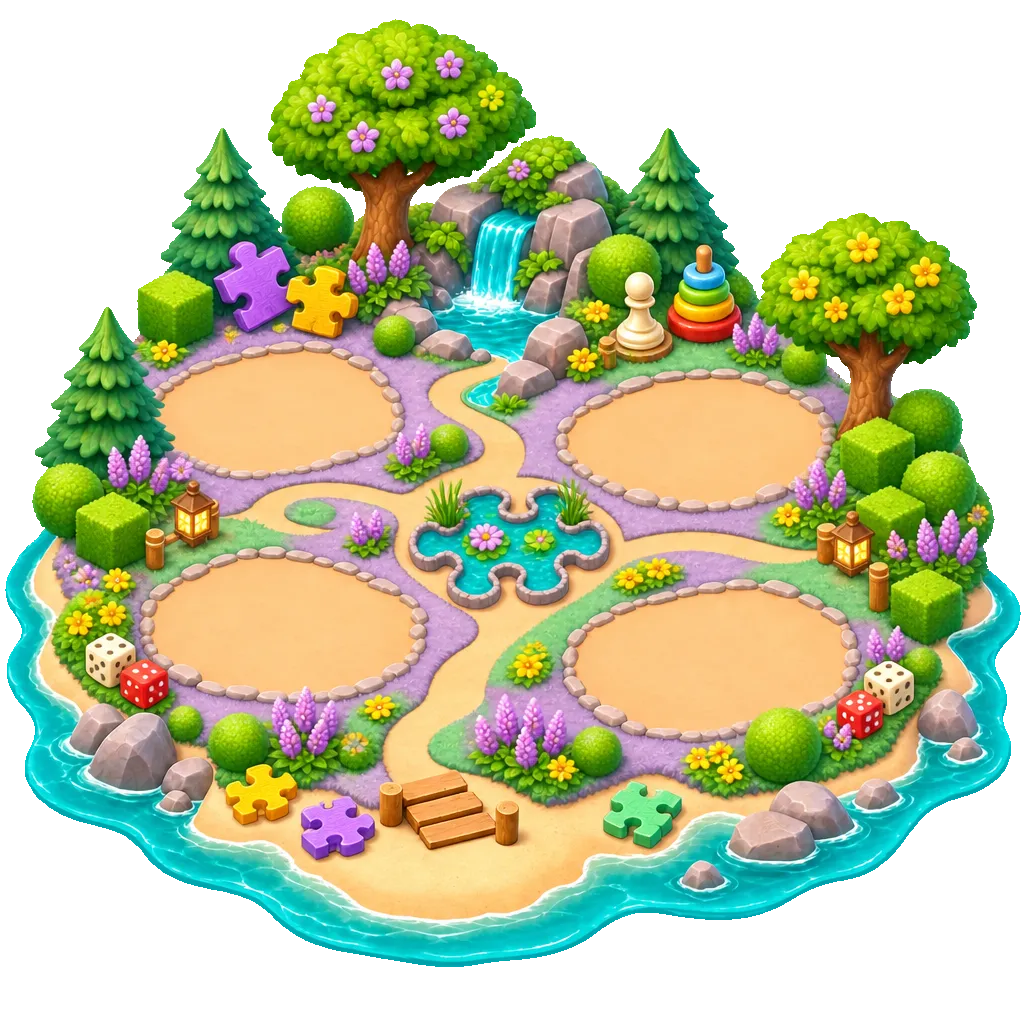
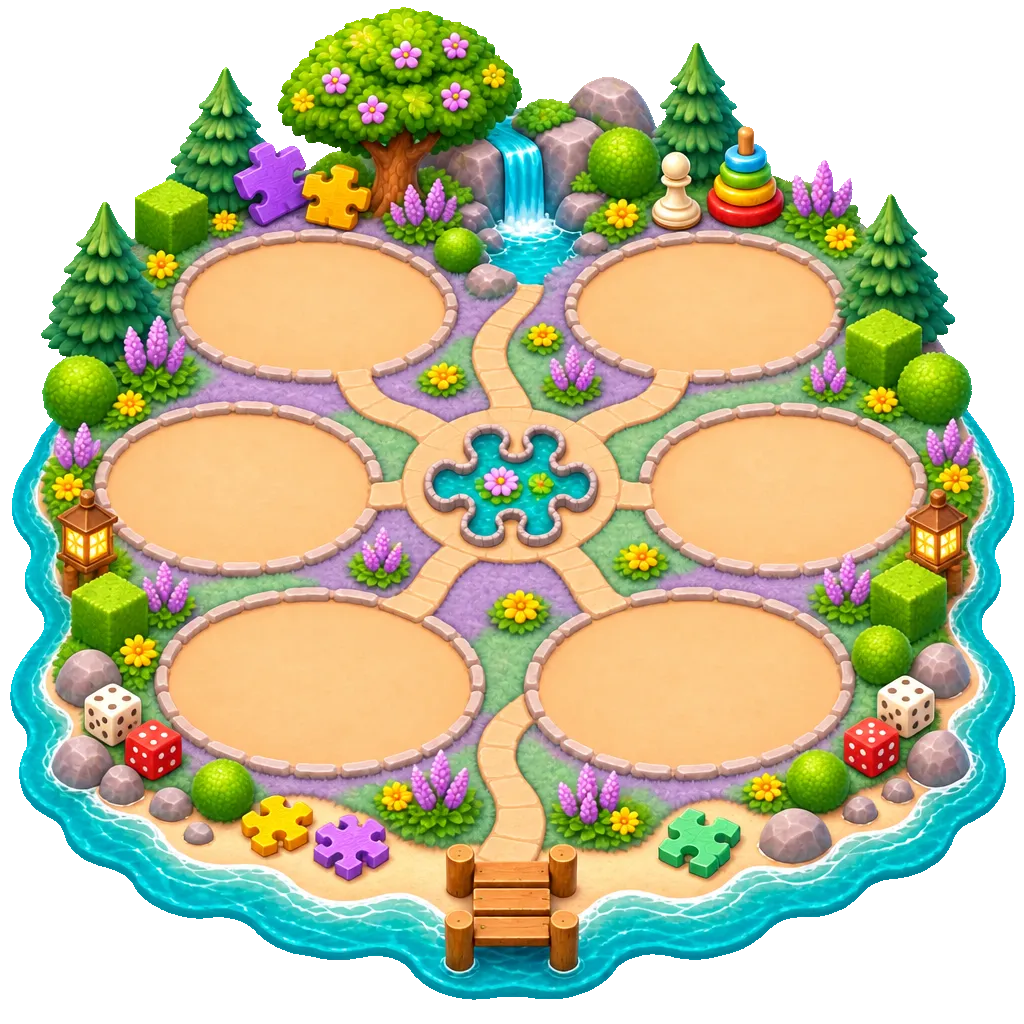
L'île des méninges passe à 6 places, 2 libres pour de futurs bâtiments

diff --git a/js/carte.js b/js/carte.js
@@ -271,7 +271,7 @@ const EMPLACEMENTS = {
   securite: { cote: 150, places: [[0.314, 0.343], [0.686, 0.35], [0.27, 0.6], [0.683, 0.607]] },
   coeur: { cote: 150, places: [[0.27, 0.4], [0.67, 0.43], [0.275, 0.607], [0.693, 0.636]] },
   nature: { cote: 150, places: [[0.27, 0.41], [0.68, 0.43], [0.28, 0.61], [0.69, 0.64]] },
-  meninges: { cote: 150, places: [[0.27, 0.41], [0.68, 0.43], [0.28, 0.61], [0.69, 0.64]] },
+  meninges: { cote: 150, places: [[0.31, 0.295], [0.69, 0.295], [0.235, 0.48], [0.765, 0.48], [0.315, 0.665], [0.675, 0.665]] }, // 6 emplacements, les 2 du bas sont libres
 };
 const FOND = [40, 110, 720]; // l'image de l'île sur la carte : x, y, côté
 const surLeFond = ([nx, ny]) => [FOND[0] + FOND[2] * nx, FOND[1] + FOND[2] * (ny + 0.045)]; // le sol d'un bâtiment, un peu sous le milieu de l'emplacement

diff --git a/sw.js b/sw.js
@@ -1,5 +1,5 @@
 // Garde l'app en cache pour qu'elle marche hors ligne. Changer VERSION à chaque mise en ligne.
-const VERSION = 'ile-60';
+const VERSION = 'ile-61';
 importScripts('images/liste.js'); // self.IMAGES : les images du nouveau style déjà prêtes
 const FICHIERS = [...self.IMAGES, 'images/liste.js',
   './', 'index.html', 'style.css', 'manifest.json', 'icons/icone-192.png', 'icons/icone-512.png',

diff --git a/RESUME-SESSION.md b/RESUME-SESSION.md
@@ -4,7 +4,7 @@
 
 ## Où on en est
 - Branche de travail : `jardin-route-voix`. Elle est fusionnée dans `main` à chaque « oui, commite et envoie ».
-- Version du cache (`sw.js`) : `ile-60`. Il faut la monter à chaque envoi.
+- Version du cache (`sw.js`) : `ile-61`. Il faut la monter à chaque envoi.
 - 154 tests, tous verts (`npm test`).
 - L'app en ligne : https://alielrab.github.io/ile-aux-defis/ (GitHub Pages, branche `main`).
 
@@ -40,7 +40,7 @@
 - **Île du cœur** (20 ⭐, 4 places, pleine) : maison de la confiance (5 thèmes), émotions, missions de la maison, lieu de culte.
 - Pour un nouveau jeu : le ranger dans un bâtiment existant (pastille « N jeux »), ou changer la carte d'une île, ou ouvrir une nouvelle île.
 - **Île de la nature** (20 ⭐, 4 places, 1 libre) : cabane nature (fiches et quiz), mon potager, glacier de la plage.
-- **Île des méninges** (gratuite, 4 places, pleine) : la tour des énigmes (**pas encore ouverte**, 10 jeux de logique décrits dans `IDEES.md`), le défi à deux, l'atelier des robots, le labyrinthe. Ces trois jeux ont été déménagés le 25 novembre : il reste une place vide sur l'île de la nature et une sur l'île des créateurs.
+- **Île des méninges** (gratuite, 6 places, 2 libres en bas) : la tour des énigmes (**pas encore ouverte**, 10 jeux de logique décrits dans `IDEES.md`), le défi à deux, l'atelier des robots, le labyrinthe. Ces trois jeux ont été déménagés le 25 novembre : il reste une place vide sur l'île de la nature et une sur l'île des créateurs.
 - **Archipel** : 1 place « Bientôt » en bas à droite pour une future île.
 - Sur la carte : pastille « N jeux » sur les bâtiments qui en cachent plusieurs, et médailles (bronze 1, argent 5, or 15 parties, `profil.parties`).
 - La liste exacte est dans `js/carte.js` (`LIEUX`, `EMPLACEMENTS`, `JEUX_DU_LIEU`).
